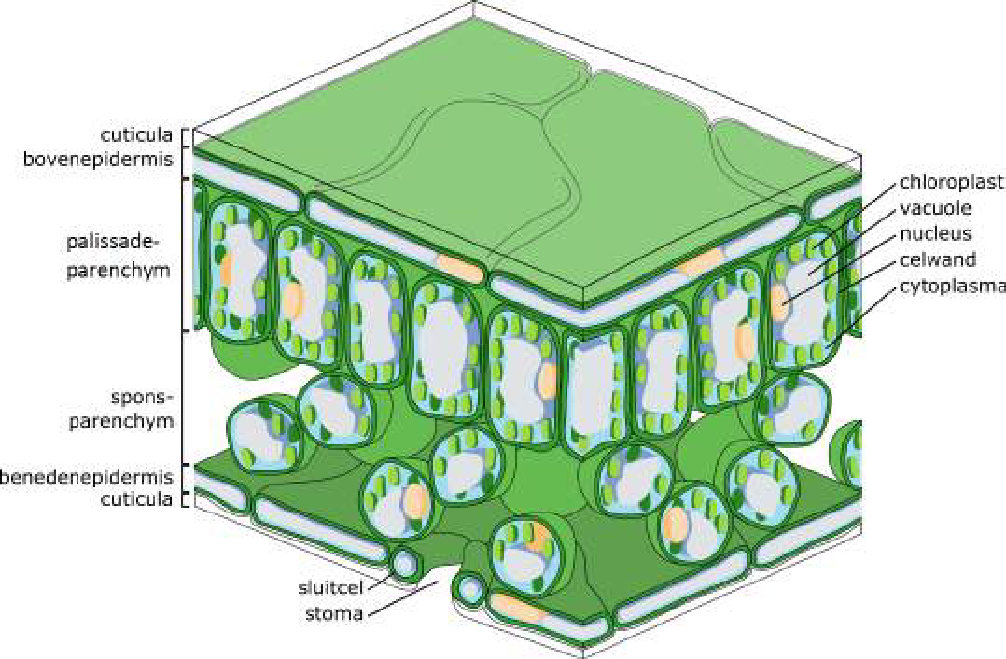
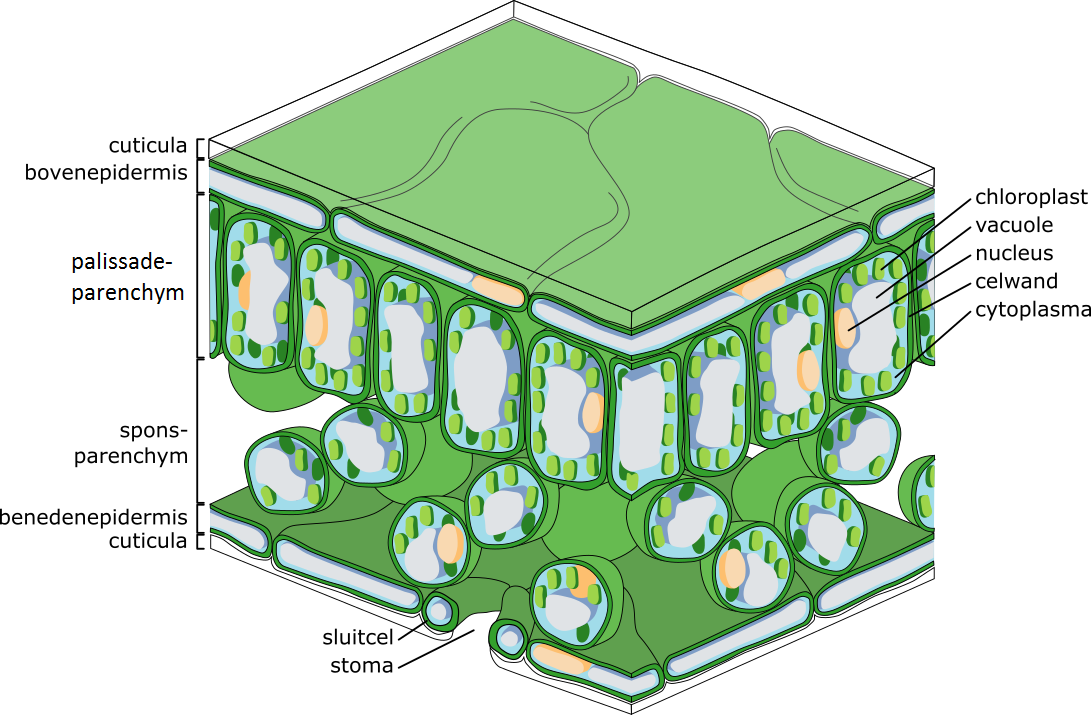
updated images

diff --git a/learning_objects/content/kiks/2500_evolutieplanten/index.md b/learning_objects/content/kiks/2500_evolutieplanten/index.md
@@ -33,14 +33,14 @@ teacher_exclusive: true
 # Evolutie van planten en hun stomata 
 **Fossiele bladeren geven veel informatie over de evolutie van planten en hun stomata.** Vierhonderd miljoen jaar geleden kwamen stomata bij planten voor het eerst voor. Sindsdien zijn ze geëvolueerd: er zijn opvallende veranderingen opgetreden waaronder verschillen in de grootte en de dichtheid van de stomata (zie Figuur 1) (Hetherington & Woodward, 2003). 
 
-![](embed/fossieledichtheid.png "stomatale dichtheid") 
+![](embed/stomatal-size-and-density.png "stomatale dichtheid") 
 <figure>
     <figcaption align = "center">Figuur 1: Fossil record-based plant leaf stomatal size (<em>s</em>) and density (<em>d</em>). Hoe meer stomata per oppervlakte-eenheid, hoe kleiner de stomata. De planten zijn zo geevolueerd dat de ingenomen bladoppervlakte (<em>s.d</em>) zo klein mogelijk is (Assouline & Or, 2013). Gebaseerd op Franks & Beerling, 2009.</figcaption>
 </figure> 
 
 **Bij een lage CO<sub>2</sub>-concentratie zijn planten met veel stomata in het voordeel en komen ze dan ook veel voor. Wanneer er veel CO<sub>2</sub> in de atmosfeer zit, zijn planten met minder stomata in het voordeel en zullen veel voorkomen** (Thanukos, 2018). Dit wordt geïllustreerd in Figuur 2. 
 
-![](embed/stomatakoolstof.png "Verband stomata en koolstofdioxide") 
+![](embed/aantalStomataCO2.png "Verband stomata en koolstofdioxide") 
 <figure>
     <figcaption align = "center">Figuur 2: Verband tussen aantal en grootte van de stomata en de CO<sub>2</sub>-concentratie.</figcaption>
 </figure> 

diff --git a/learning_objects/content/kiks/2400_practicum/index.md b/learning_objects/content/kiks/2400_practicum/index.md
@@ -35,21 +35,21 @@ teacher_exclusive: true
 Niemand heeft reeds huidmondjes gezien met het blote oog. Je kan huidmondjes bewonderen met een **microscoop**. Dat is een toffe ervaring want je kan de huidmondjes ook door de microscoop **fotograferen** met een smartphone. Je kan bv. een monoculaire microscoop gebruiken die 400 keer vergroot.<br> 
 Als je door de microscoop naar **levend** materiaal kijkt, dan krijg je mooie beelden te zien (Zie Figuur 1). Daarvoor moet je er wel in slagen een stuk van de flinterdunne cuticula van het blad te verwijderen. Bij sommige planten lukt dat niet zo goed, bv. door de stugheid van het blad. 
 
-![](embed/microfoto1.png) 
+![](embed/microfoto1.png "Microfoto") 
 <figure>
     <figcaption align = "center">Figuur 1: Microfoto van levend materiaal.</figcaption>
 </figure> 
 
 Je kan dit opvangen door dezelfde methode te gebruiken als de onderzoekers van de Plantentuin Meise, nl. een **afdruk** nemen van het blad met doorzichtige nagellak (Figuur 2). 
 
-![](embed/bladafdruk.png) 
+![](embed/nagellak.jpg "Bladafdruk") 
 <figure>
     <figcaption align = "center">Figuur 2: Bladafdruk nemen met nagellak en plakband.</figcaption>
 </figure> 
 
 De foto’s zijn dan niet meer zo mooi van kleur, maar grijsachtig (zie Figuur 3). Maar al bij al levert het nog steeds mooie plaatjes op; de natuur op zijn best. 
 
-![](embed/microfoto2.png)
+![](embed/microfoto2.png "Microfoto")
 <figure>
     <figcaption align = "center">Figuur 3: Microfoto van levend materiaal.</figcaption>
 </figure> 

diff --git a/learning_objects/content/kiks/2700_stomataklimaat/index.md b/learning_objects/content/kiks/2700_stomataklimaat/index.md
@@ -34,7 +34,7 @@ teacher_exclusive: true
 
 **De water- en CO<sub>2</sub>-cycli van de wereld worden beïnvloed door de transpiratie van planten op het land. Men kan dus zeggen dat stomata een impact hebben die globaal is, een impact op de hele wereld. Er wordt het meest getranspireerd door de vegetatie in de warme beboste gebieden van de tropen** (zie figuur) (Hetherington & Woodward, 2003). De tropische regenwouden situeren zich in gebieden in de buurt van de evenaar. Ze bevinden zich in Centraal- en Zuid-Amerika, in Afrika, in Azië en op de eilanden rond Australië. **Het is belangrijk om te begrijpen hoe planten deze transpiratie zullen aanpassen aan de huidige klimaatverandering.** Wetenschappers onderzoeken ook hoe de huidige klimaatverandering de vorming van stomata beïnvloedt. 
 
-![](embed/regenwouden.png "Regenwouden") 
+![](embed/tropical_wet_forests.png "Regenwouden") 
 <figure>
     <figcaption align = "center">Figuur: De tropische regenwouden zijn groen gekleurd op de kaart.</em></figcaption>
 </figure> 

diff --git a/learning_objects/content/kiks/2300_openensluiten/index.md b/learning_objects/content/kiks/2300_openensluiten/index.md
@@ -38,7 +38,7 @@ Stomata zijn onderhevig aan ritmes zoals dag en nacht en de seizoenen.
 
 Duidelijk is dat de stomata ‘reageren’ op **omgevingsfactoren**. Bij eenzelfde plant ziet men soms het verschil tussen bladeren onderaan de plant, die veel beschaduwd zijn, en bladeren in de kruin die veel meer blootgesteld zijn aan het licht. Zelfs op eenzelfde blad kunnen stomata zich anders gedragen omdat dit de plant ten goede kan komen; op eenzelfde blad kunnen sommige stomata open zijn en andere gesloten (Zie Figuur). 
 
-![](embed/opengesloten.png "open en gesloten stomata") 
+![](embed/stomaopentoe.jpg "open en gesloten stomata") 
 <figure>
-    <figcaption align = "center">Figuur: Open en gesloten stoma op zelfde blad</figcaption>
+    <figcaption align = "center">Figuur: Open en gesloten stoma op zelfde blad.</figcaption>
 </figure> 

diff --git a/learning_objects/content/kiks/2100_dicotylmonocotyl/index.md b/learning_objects/content/kiks/2100_dicotylmonocotyl/index.md
@@ -48,7 +48,7 @@ De stomata en de cuticula worden gezien als **sleutelelementen in de evolutie va
 
 Stomata geven informatie over de plaats van de plant in de stamboom van de bloemplanten. Onder de bedektzadigen of bloeiende planten onderscheidt men de **dicotylen** en de **monocotylen** (zie Figuur 3). De stomata van dicotylen zijn niervormig, terwijl die van monocotylen niervormig of haltervormig kunnen zijn, afhankelijk van de plant. De nerven van monocotylen liggen evenwijdig en hun huidmondjes ook. De nerven van dicotylen zijn vertakt en hun huidmondjes liggen willekeurig verspreid over het blad.
 
-![](embed/monocotyldicotyl.png "Monocotyl en dicotyl")
+![](embed/cotylen.png "Monocotyl en dicotyl")
 <figure>
     <figcaption align = "center">Figuur 3: Monocotylen en dicotylen</figcaption>
 </figure>

diff --git a/learning_objects/content/kiks/2600_invloedomgeving/index.md b/learning_objects/content/kiks/2600_invloedomgeving/index.md
@@ -37,7 +37,7 @@ teacher_exclusive: true
 
 <ul><li>Bij eenzelfde plant kan het aantal stomata op beschaduwde bladeren onderaan de plant verschillen van het aantal stomata op bladeren in de kruin die veel meer blootgesteld zijn aan het licht. Sofie Meeus stelde dat vast op de Monodora angolensis in de Plantentuin Meise, zoals te zien op de figuur.</li></ul> 
 
-![](embed/stomatazonschaduw.png "stomata zon - schaduw") 
+![](embed/bezondschaduw.png "stomata zon - schaduw") 
 <figure>
     <figcaption align = "center">Figuur: respectievelijk bezond en beschaduwd blad van <em>Monodora angolensis</em></figcaption>
 </figure> 
